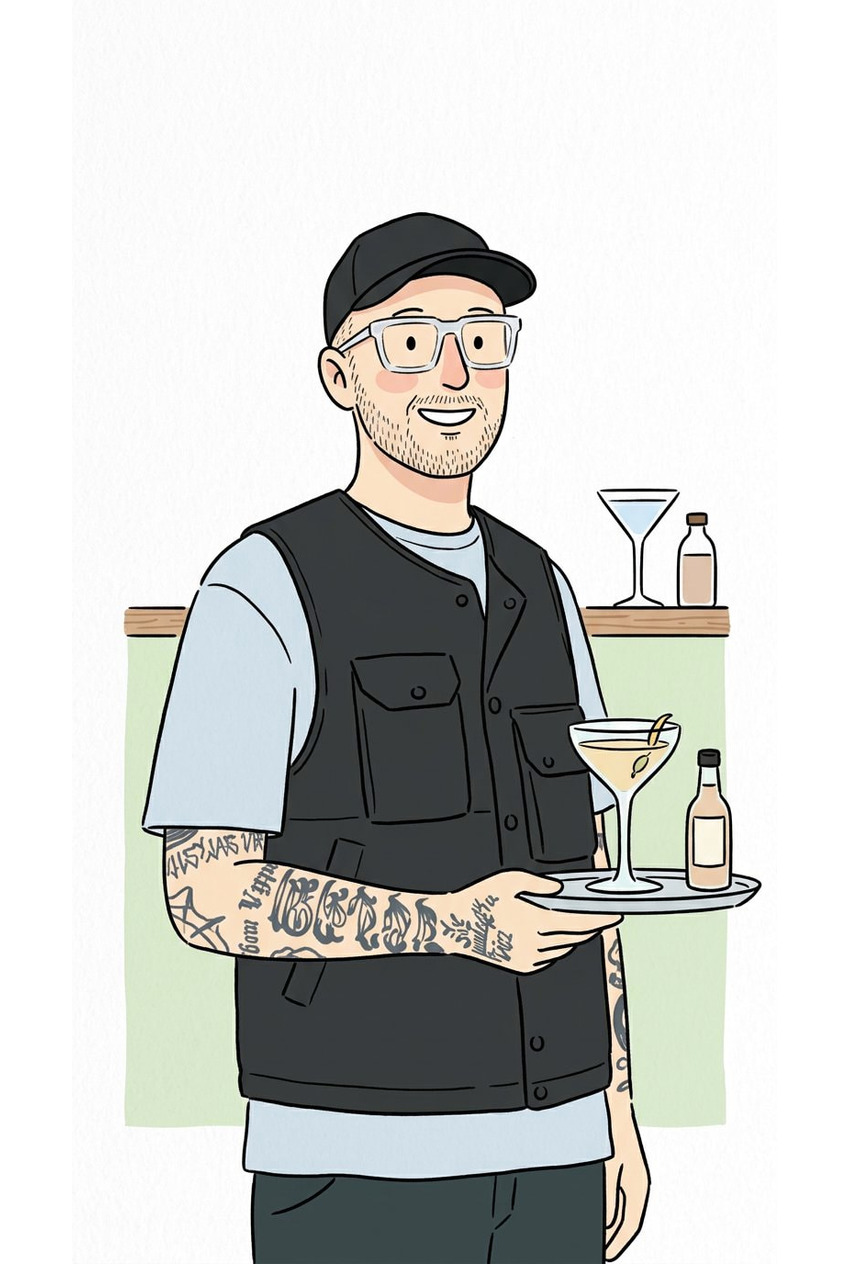
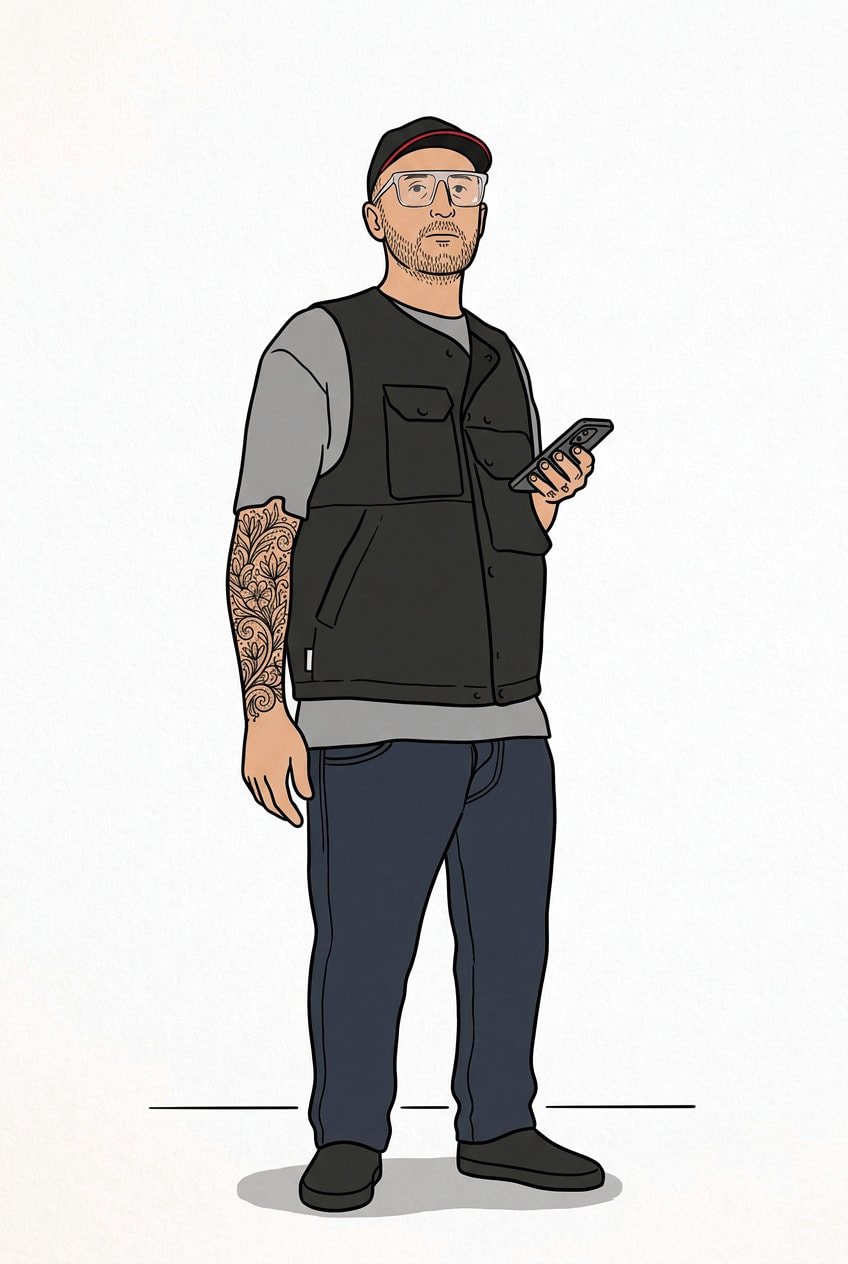
Close the portrait silhouette and put the two last portraits on the ground
The line-weight pass the README asked for was measured before it was run and
does not exist: median ink stroke is 2 px in the light documents and 3 px in
the dense ones, and the earlier ranking was reading ink area, which scores a
black room as a fat pen. The pass is cancelled in writing, with the table of
measurements kept in the audit.

Two real faults were hiding behind that impression: portraits drawn without
an outer contour, and figures cut with no ground. Kratena and Narzi are now
full-length with a closed contour and one flat shadow.

diff --git a/presentation/build/illustration-audit.md b/presentation/build/illustration-audit.md
@@ -447,3 +447,46 @@ that is now right (El Copitas in the cases, Redzepi's wardrobe, Narzi's dark hai
    a blank white block.
 4. Repair the physics list in §10.4 file by file; `illo-m03`, `illo-m07`, `illo-m08`, `illo-m09` and
    `illo-m10` need only a support line, a table edge or one hand redrawn.
+
+### 10.6 The line-weight question, measured instead of guessed
+
+The README carried an instruction to "make one unifying pass over the line weight of the whole series"
+at the end. Before doing it, the stroke was measured across the library — median run length of ink
+pixels along a scanline, capped at 24 px so a black wall is not read as a fat pen:
+
+| File | Median stroke | Mean |
+| --- | --- | --- |
+| `illo-lesson-signals.jpg` | 2 px | 2.3 px |
+| `illo-m01-signals.jpg` | 2 px | 3.1 px |
+| `illo-lesson-scenography.jpg` | 2 px | 4.3 px |
+| `illo-figure-savage.jpg` | 2 px | 2.0 px |
+| `illo-figure-zarkov.jpg` | 2 px | 2.7 px |
+| `illo-figure-kratena.jpg` | 3 px | 3.2 px |
+| `illo-figure-narzi.jpg` | 3 px | 4.5 px |
+| `illo-figure-dave-arnold.jpg` | 3 px | 3.6 px |
+| `illo-case-black-swan-bobkov.jpg` | 2 px | 3.2 px |
+| `illo-case-benfiddich-kayama.jpg` | 3 px | 5.3 px |
+| `illo-case-krasota-zarkov.jpg` | 3 px | 4.9 px |
+| `illo-case-jiro-ono.jpg` | 3 px | 3.9 px |
+
+**Conclusion: there is no line-weight drift.** Median stroke is 2 px in the thin documents and 3 px in
+the dense ones — one pixel apart at 1264 px wide, which is what the eye reads as "same hand". The
+impression that newer drawings are thinner was a misreading of one measurement: ink *area*. Its first
+pass ranked `illo-case-el-copitas-zernov` at 91.9 and `illo-case-sips-caporale` at 94.3 on a
+"line thickness" scale, purely because those two pictures are black rooms. Ink area measures darkness,
+not the pen.
+
+So the planned re-render of all 52 files is **cancelled as unnecessary**, and the instruction is removed
+from the README. What did look like drift, once the files were laid side by side, was two different
+things:
+
+1. **The portraits have no outer contour.** Figures were drawn with an interior line only, so they have
+   no edge against the paper and read softer than the case cards, which outline every shape. Fix: close
+   the outer silhouette.
+2. **Float.** Several portraits cut the figure at mid-thigh with no ground and no shadow, so the person
+   hangs in the page. Fix: one flat shadow or one floor line under the cut.
+
+Both applied on 29 October 2026 to the two portraits that were drawn last and showed the fault most
+clearly — `illo-figure-kratena.jpg` and `illo-figure-narzi.jpg` are now full-length figures with a closed
+contour and one flat shadow under the shoes. The other ten portraits are close crops where the crop itself
+is the edge, so they do not need the shadow; they were checked and left alone.

diff --git a/README.md b/README.md
@@ -270,8 +270,12 @@ list in `presentation/build/illustration-audit.md` §10.4 — fixed on 29 Octobe
 were **wrong** — `illo-m09-found` ties every tag to its object, `illo-m06-ai` holds the bowl in the gripper,
 `illo-m10-mockup` rests both hands on the panel edges — and the Sips foreground has been fully painted since
 its redraw. What genuinely remains there is one line: the tasting glass in `illo-m03-senses` overlaps the
-drinker's nose; (5) one unifying pass over the line weight of the whole series once the list is
-closed. The checklist used
+drinker's nose; (5) ~~one unifying pass over the line weight of the whole series once the list is closed~~ —
+**cancelled after measurement**, 29 October 2026: the median ink stroke is 2 px in the light documents and
+3 px in the dense ones across the whole library, so there is no drift to repair and re-rendering 52 files
+would only have introduced one. What read as drift was ink *area* (dark rooms score high on any area metric)
+and two real faults in the portrait set, now recorded in `illustration-audit.md` §10.6: portraits drawn
+without an outer contour, and figures cut at mid-thigh with no shadow. The checklist used
 for every redraw, and the reasoning behind each verdict, are in
 `presentation/build/illustration-audit.md`.
 
